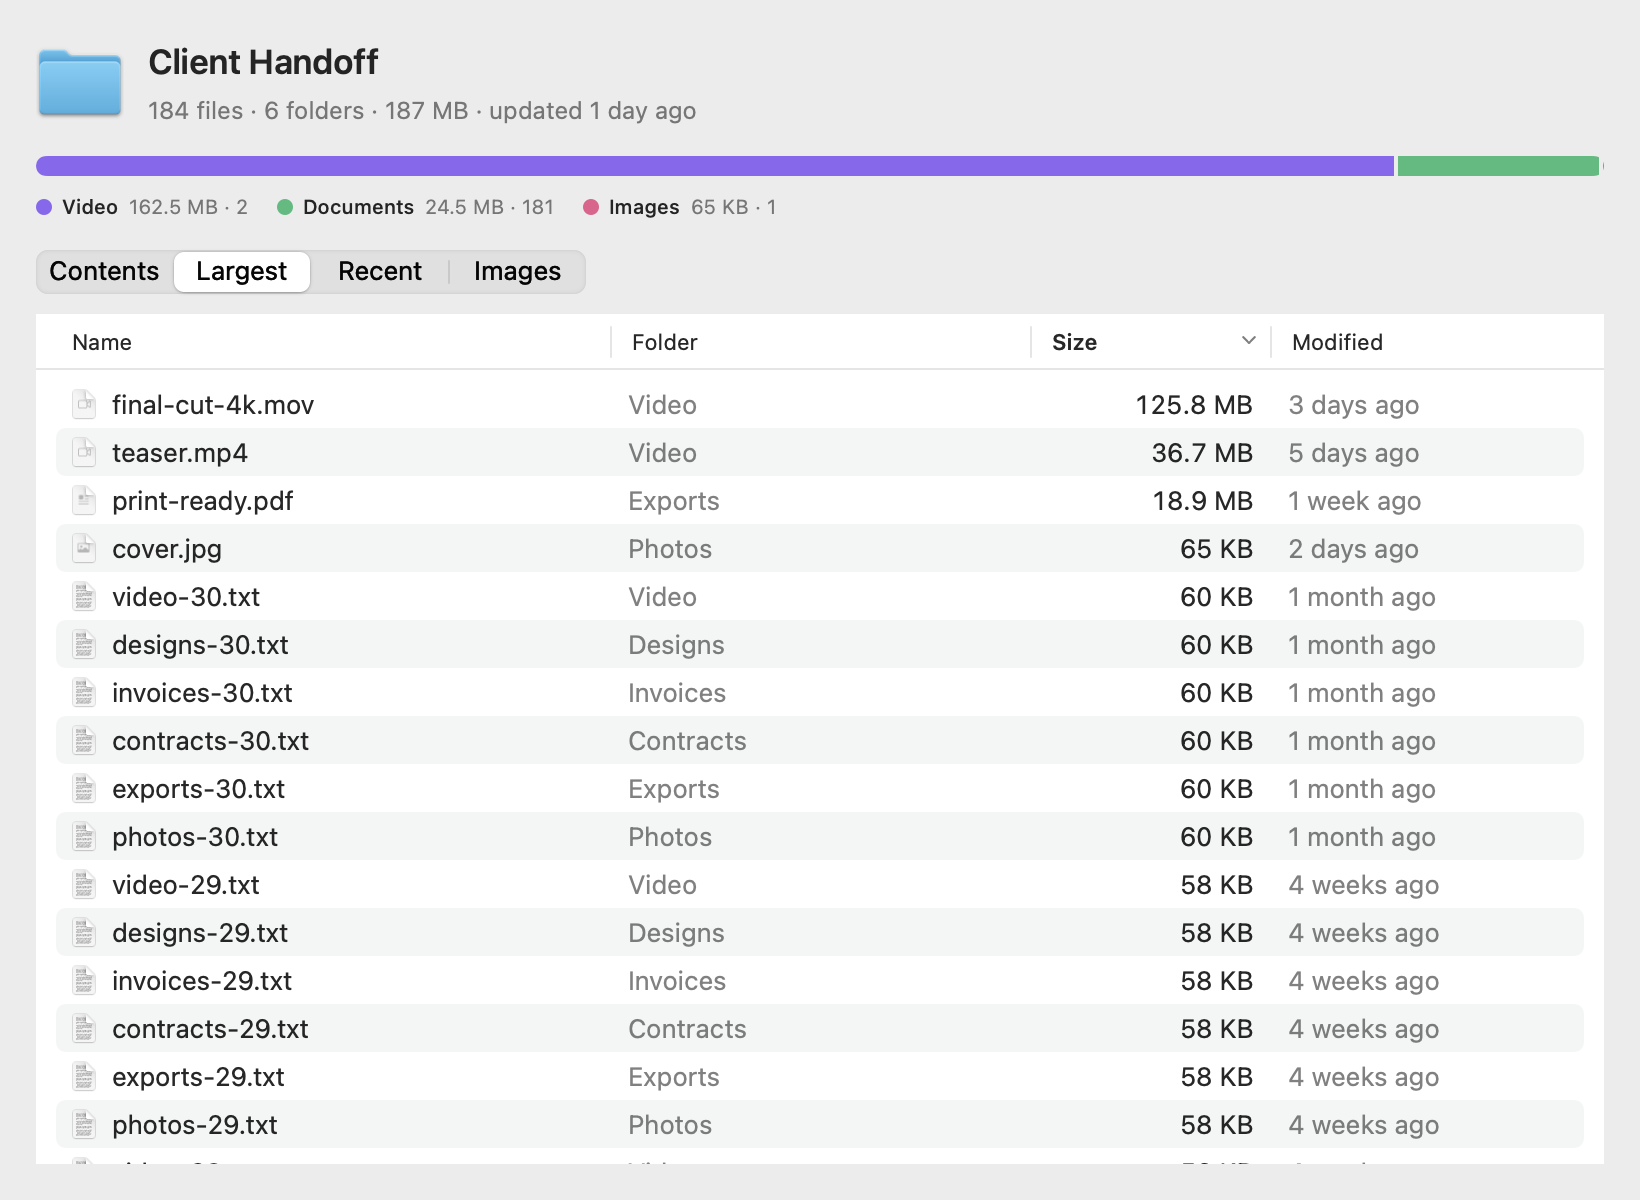
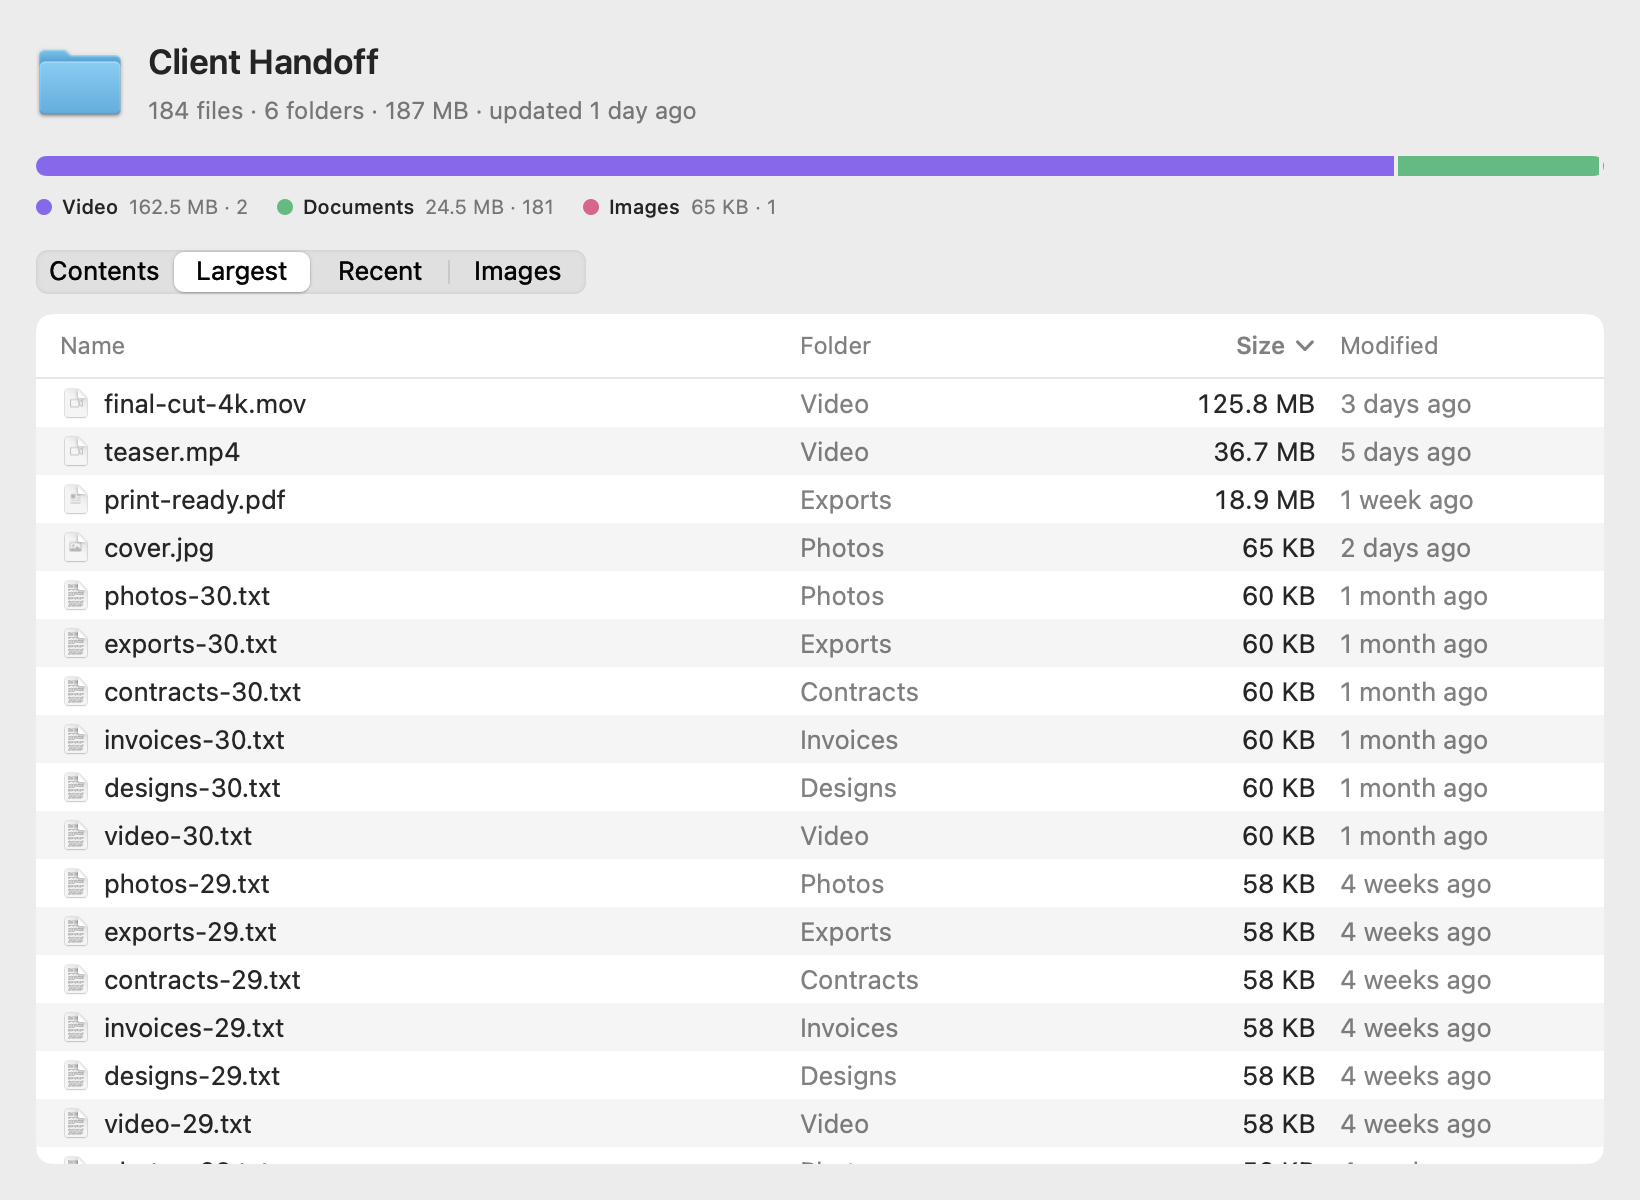
perf: make tab switches and live updates lighter (#4)
Switching tabs rebuilt a SwiftUI Table each time, which creates an AppKit
table view plus a hosting view per cell. Measured inside Quick Look that cost
50-107 ms per switch. A lazy list with the same columns and click-to-sort
headers brings it to 23-37 ms.

Thumbnails are cached, so returning to Images reuses decoded images instead
of reading every file again (now 5-8 ms). Rows reuse one date formatter and
one icon per file type instead of creating them per cell per render. Live
scan updates go out twice a second instead of five times, and folder and zip
scans run at utility priority so a big scan yields to foreground work.

Bumps the version to 0.1.2.

diff --git a/Sources/FoldoutUI/PreviewView.swift b/Sources/FoldoutUI/PreviewView.swift
@@ -33,6 +33,7 @@ public struct PreviewView: View {
         }
         .frame(minWidth: 520, minHeight: 360)
         .background(Color(nsColor: .windowBackgroundColor))
+
     }
 
     private var availableTabs: [Tab] {
@@ -174,75 +175,126 @@ struct GitCard: View {
 }
 
 struct FileTable: View {
-    enum SortKey { case name, size, modified }
+    enum SortKey { case name, folder, size, items, modified }
 
     let items: [FileItem]
     let showsFolder: Bool
-    @State private var order: [KeyPathComparator<FileItem>]
+    @State private var key: SortKey
+    @State private var ascending: Bool
 
     init(items: [FileItem], showsFolder: Bool, initialSort: SortKey) {
         self.items = items
         self.showsFolder = showsFolder
-        switch initialSort {
-        case .name: _order = State(initialValue: [KeyPathComparator(\FileItem.name)])
-        case .size: _order = State(initialValue: [KeyPathComparator(\FileItem.size, order: .reverse)])
-        case .modified: _order = State(initialValue: [KeyPathComparator(\FileItem.sortDate, order: .reverse)])
+        _key = State(initialValue: initialSort)
+        _ascending = State(initialValue: initialSort == .name || initialSort == .folder)
+    }
+
+    private var columns: [SortKey] { showsFolder ? [.name, .folder, .size, .modified] : [.name, .size, .items, .modified] }
+
+    private var sorted: [FileItem] {
+        let ordered: [FileItem]
+        switch key {
+        case .name: ordered = items.sorted { $0.name.localizedStandardCompare($1.name) == .orderedAscending }
+        case .folder: ordered = items.sorted { $0.folder.localizedStandardCompare($1.folder) == .orderedAscending }
+        case .size: ordered = items.sorted { $0.size < $1.size }
+        case .items: ordered = items.sorted { $0.itemCount < $1.itemCount }
+        case .modified: ordered = items.sorted { $0.sortDate < $1.sortDate }
         }
+        return ascending ? ordered : ordered.reversed()
     }
 
     var body: some View {
-        if showsFolder {
-            Table(items.sorted(using: order), sortOrder: $order) {
-                TableColumn("Name", value: \.name) { NameCell(item: $0) }.width(min: 160, ideal: 240)
-                TableColumn("Folder", value: \.folder) { item in
-                    Text(item.folder).foregroundStyle(.secondary).lineLimit(1).truncationMode(.head)
+        VStack(spacing: 0) {
+            HStack(spacing: 12) {
+                ForEach(columns, id: \.self) { column in
+                    Button {
+                        if key == column { ascending.toggle() } else { key = column; ascending = column == .name || column == .folder }
+                    } label: {
+                        HStack(spacing: 4) {
+                            if Self.trailing(column) { Spacer(minLength: 0) }
+                            Text(Self.title(column)).fontWeight(key == column ? .semibold : .regular)
+                            if key == column { Image(systemName: ascending ? "chevron.up" : "chevron.down").font(.caption2.weight(.bold)) }
+                            if !Self.trailing(column) { Spacer(minLength: 0) }
+                        }
+                        .contentShape(Rectangle())
+                    }
+                    .buttonStyle(.plain)
+                    .modifier(ColumnWidth(column: column))
                 }
-                .width(min: 80, ideal: 170)
-                TableColumn("Size", value: \.size) { SizeCell(item: $0) }.width(min: 70, ideal: 80)
-                TableColumn("Modified", value: \.sortDate) { DateCell(item: $0) }.width(min: 90, ideal: 120)
             }
-            .tableStyle(.inset(alternatesRowBackgrounds: true))
-        } else {
-            Table(items.sorted(using: order), sortOrder: $order) {
-                TableColumn("Name", value: \.name) { NameCell(item: $0) }.width(min: 160, ideal: 300)
-                TableColumn("Size", value: \.size) { SizeCell(item: $0) }.width(min: 70, ideal: 80)
-                TableColumn("Items", value: \.itemCount) { item in
-                    Text(item.isDirectory ? item.itemCount.formatted() : "").monospacedDigit().foregroundStyle(.secondary)
-                        .frame(maxWidth: .infinity, alignment: .trailing)
+            .font(.callout)
+            .foregroundStyle(.secondary)
+            .padding(.horizontal, 12)
+            .padding(.vertical, 7)
+            Divider()
+            ScrollView {
+                LazyVStack(spacing: 0) {
+                    ForEach(Array(sorted.enumerated()), id: \.element.id) { index, item in
+                        FileRow(item: item, columns: columns)
+                            .padding(.horizontal, 12)
+                            .padding(.vertical, 4)
+                            .background(index.isMultiple(of: 2) ? Color.clear : Color.primary.opacity(0.045))
+                    }
                 }
-                .width(min: 50, ideal: 60)
-                TableColumn("Modified", value: \.sortDate) { DateCell(item: $0) }.width(min: 90, ideal: 120)
             }
-            .tableStyle(.inset(alternatesRowBackgrounds: true))
+        }
+        .background(Color(nsColor: .textBackgroundColor))
+        .clipShape(RoundedRectangle(cornerRadius: 8))
+    }
+
+    static func title(_ column: SortKey) -> String {
+        switch column {
+        case .name: "Name"
+        case .folder: "Folder"
+        case .size: "Size"
+        case .items: "Items"
+        case .modified: "Modified"
+        }
+    }
+
+    static func trailing(_ column: SortKey) -> Bool { column == .size || column == .items }
+}
+
+struct ColumnWidth: ViewModifier {
+    let column: FileTable.SortKey
+
+    func body(content: Content) -> some View {
+        switch column {
+        case .name: content.frame(minWidth: 140, maxWidth: .infinity, alignment: .leading)
+        case .folder: content.frame(width: 170, alignment: .leading)
+        case .size: content.frame(width: 76, alignment: .trailing)
+        case .items: content.frame(width: 56, alignment: .trailing)
+        case .modified: content.frame(width: 120, alignment: .leading)
         }
     }
 }
 
-struct NameCell: View {
+struct FileRow: View {
     let item: FileItem
+    let columns: [FileTable.SortKey]
 
     var body: some View {
-        HStack(spacing: 6) {
-            Image(nsImage: Format.icon(for: item)).resizable().frame(width: 16, height: 16)
-            Text(item.name).lineLimit(1).truncationMode(.middle)
+        HStack(spacing: 12) {
+            ForEach(columns, id: \.self) { column in
+                cell(column).modifier(ColumnWidth(column: column))
+            }
         }
-        .opacity(item.isHidden ? 0.55 : 1)
+        .lineLimit(1)
     }
-}
 
-struct SizeCell: View {
-    let item: FileItem
-
-    var body: some View {
-        Text(Format.bytes(item.size)).monospacedDigit().frame(maxWidth: .infinity, alignment: .trailing)
-    }
-}
-
-struct DateCell: View {
-    let item: FileItem
-
-    var body: some View {
-        Text(item.modified.map(Format.relative) ?? "").foregroundStyle(.secondary).lineLimit(1)
+    @ViewBuilder private func cell(_ column: FileTable.SortKey) -> some View {
+        switch column {
+        case .name:
+            HStack(spacing: 6) {
+                Image(nsImage: Format.icon(for: item)).resizable().frame(width: 16, height: 16)
+                Text(item.name).truncationMode(.middle)
+            }
+            .opacity(item.isHidden ? 0.55 : 1)
+        case .folder: Text(item.folder).foregroundStyle(.secondary).truncationMode(.head)
+        case .size: Text(Format.bytes(item.size)).monospacedDigit()
+        case .items: Text(item.isDirectory ? item.itemCount.formatted() : "").monospacedDigit().foregroundStyle(.secondary)
+        case .modified: Text(item.modified.map(Format.relative) ?? "").foregroundStyle(.secondary)
+        }
     }
 }
 
@@ -260,10 +312,14 @@ enum Format {
         "\(value.formatted()) \(noun)\(value == 1 ? "" : "s")"
     }
 
-    static func relative(_ date: Date) -> String {
+    private static let relativeFormatter: RelativeDateTimeFormatter = {
         let formatter = RelativeDateTimeFormatter()
         formatter.unitsStyle = .full
-        return formatter.localizedString(for: date, relativeTo: Date())
+        return formatter
+    }()
+
+    static func relative(_ date: Date) -> String {
+        relativeFormatter.localizedString(for: date, relativeTo: Date())
     }
 
     static func gitStatus(_ status: GitStatus) -> String {
@@ -284,10 +340,14 @@ enum Format {
         }
     }
 
+    @MainActor private static var icons: [String: NSImage] = [:]
+
     @MainActor static func icon(for item: FileItem) -> NSImage {
-        if item.isDirectory { return NSWorkspace.shared.icon(for: .folder) }
-        let ext = (item.path as NSString).pathExtension
-        return NSWorkspace.shared.icon(for: UTType(filenameExtension: ext) ?? .data)
+        let key = item.isDirectory ? "/" : (item.path as NSString).pathExtension.lowercased()
+        if let cached = icons[key] { return cached }
+        let icon = item.isDirectory ? NSWorkspace.shared.icon(for: .folder) : NSWorkspace.shared.icon(for: UTType(filenameExtension: key) ?? .data)
+        icons[key] = icon
+        return icon
     }
 
     @MainActor static func icon(for url: URL, content: PreviewModel.Content) -> NSImage {

diff --git a/Sources/FoldoutUI/ImageGrid.swift b/Sources/FoldoutUI/ImageGrid.swift
@@ -29,9 +29,21 @@ struct ImageGrid: View {
 }
 
 struct Thumbnail: View {
+    private static let cache: NSCache<NSURL, NSImage> = {
+        let cache = NSCache<NSURL, NSImage>()
+        cache.countLimit = FolderTally.imageLimit
+        return cache
+    }()
+
     let url: URL
     let fallback: NSImage
     @State private var image: NSImage?
+
+    init(url: URL, fallback: NSImage) {
+        self.url = url
+        self.fallback = fallback
+        _image = State(initialValue: Self.cache.object(forKey: url as NSURL))
+    }
 
     var body: some View {
         Group {
@@ -45,6 +57,7 @@ struct Thumbnail: View {
         }
         .frame(maxWidth: .infinity, maxHeight: .infinity)
         .task(id: url) {
+            guard image == nil else { return }
             image = await Task.detached(priority: .utility) { Self.load(url) }.value
         }
     }
@@ -57,6 +70,8 @@ struct Thumbnail: View {
         ]
         guard let source = CGImageSourceCreateWithURL(url as CFURL, nil),
               let thumbnail = CGImageSourceCreateThumbnailAtIndex(source, 0, options as CFDictionary) else { return nil }
-        return NSImage(cgImage: thumbnail, size: NSSize(width: thumbnail.width, height: thumbnail.height))
+        let image = NSImage(cgImage: thumbnail, size: NSSize(width: thumbnail.width, height: thumbnail.height))
+        cache.setObject(image, forKey: url as NSURL)
+        return image
     }
 }

diff --git a/Sources/FoldoutUI/PreviewModel.swift b/Sources/FoldoutUI/PreviewModel.swift
@@ -49,14 +49,14 @@ public final class PreviewModel: ObservableObject {
             readme = await Task.detached { Self.markdown(at: url) }.value
             readmeName = url.lastPathComponent
         case .zip:
-            let job = Task.detached { ZipListing.summary(of: url) }
+            let job = Task.detached(priority: .utility) { ZipListing.summary(of: url) }
             summary = await withTaskCancellationHandler { await job.value } onCancel: { job.cancel() }
             failed = summary == nil
         case .folder:
             async let details: (GitInfo?, String?, [MarkdownBlock]) = Task.detached { Self.details(of: url) }.value
             let limits = ScanLimits()
-            let scan = Task.detached { [weak self] in
-                FolderScanner.scan(url, limits: limits) { partial in
+            let scan = Task.detached(priority: .utility) { [weak self] in
+                FolderScanner.scan(url, limits: limits, progressInterval: 0.5) { partial in
                     Task { @MainActor in
                         if self?.scanFinished == false { self?.summary = partial }
                     }
